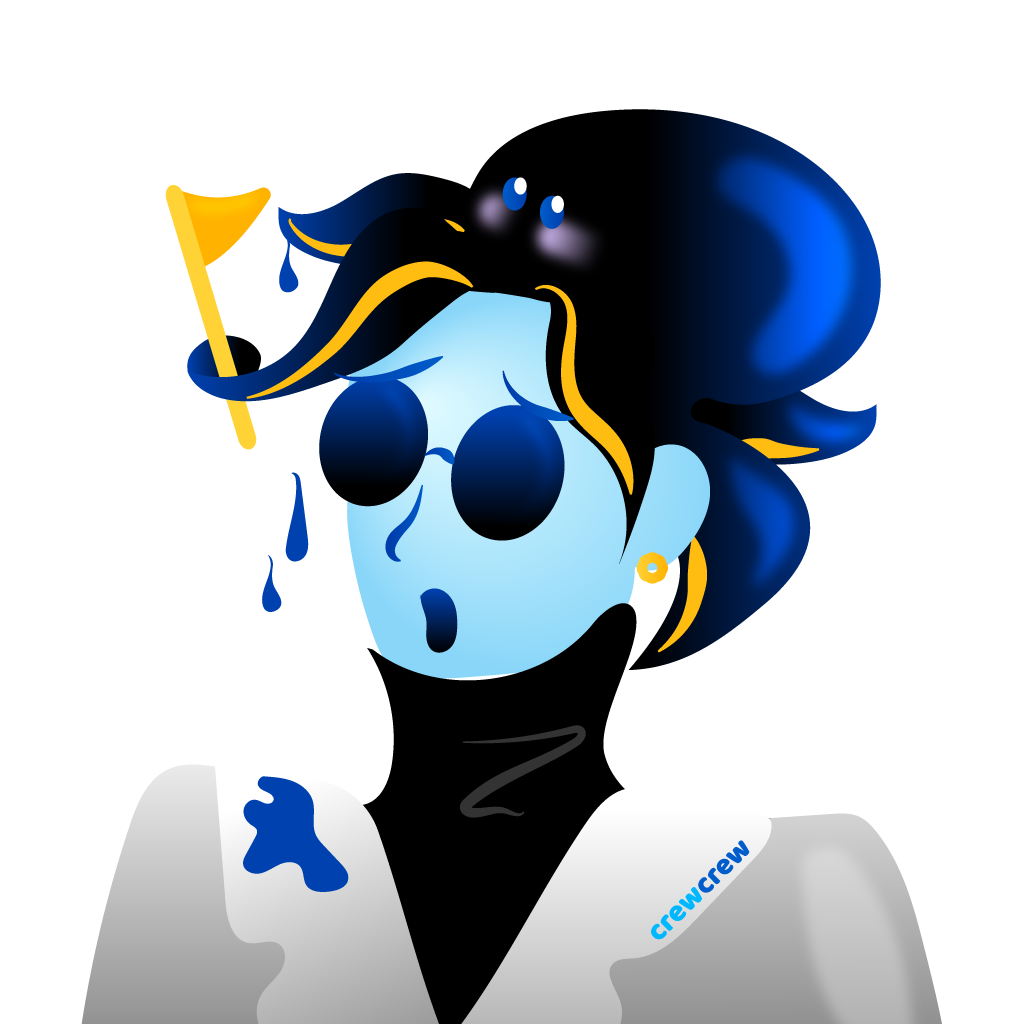
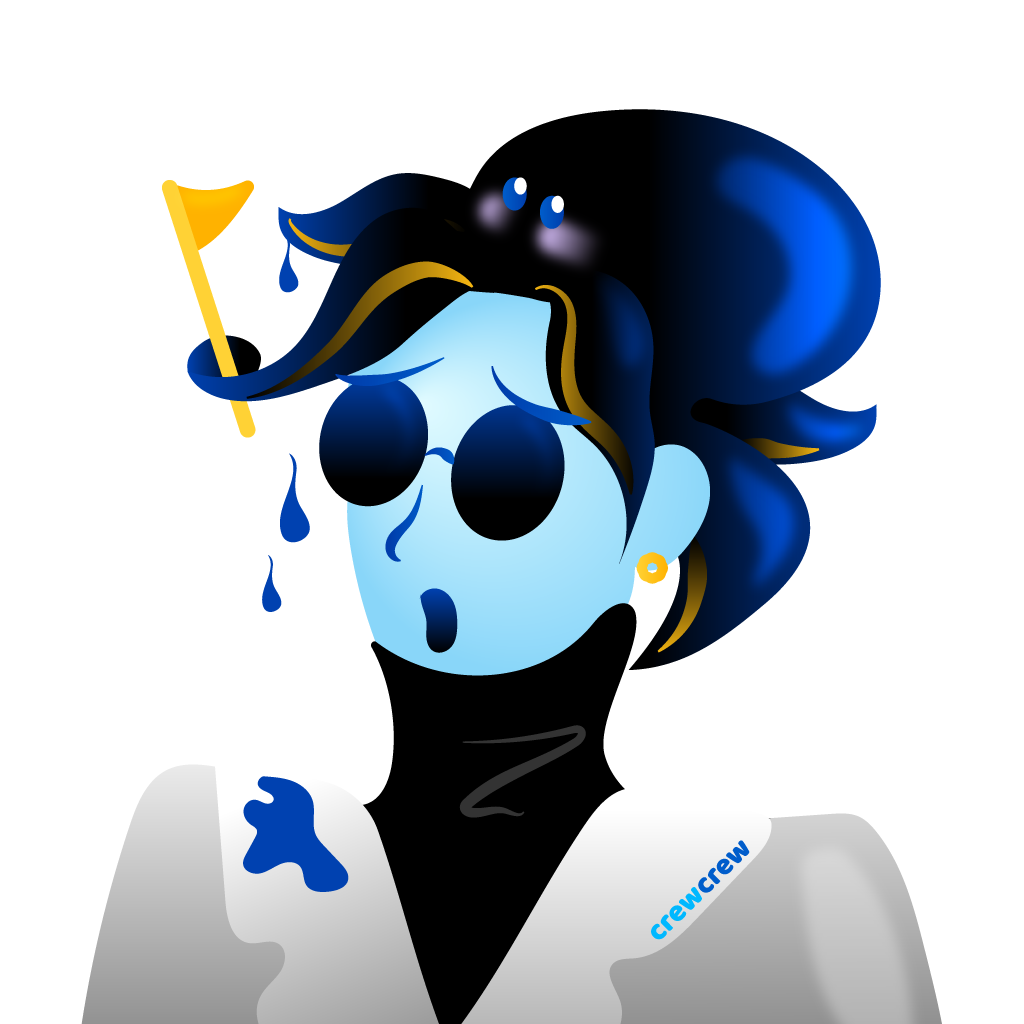
[Publish] 회원가입 2단계 앵무새프로필 추가 및 기능수정
- 프로필을 선택했을 때 해당 프로필에 On클래스 추가되도록, 나머지는 On클래스 제거되도록

diff --git a/frontend/publish/sign/SignStep2.js b/frontend/publish/sign/SignStep2.js
@@ -138,6 +138,8 @@ window.addEventListener("DOMContentLoaded", function(){
             document.querySelector(".ProfileChange").classList.add("On");
             profileShow.style.backgroundColor = "#e2e2e2";
             profileImg.firstElementChild.setAttribute("src", profileURL);
+            profileCustom.parentNode.classList.add("On");
+            profileClassRemove(); //선택한 프로필 외에 나머지 on클래스 없애기
         }
         
     });
@@ -166,8 +168,18 @@ window.addEventListener("DOMContentLoaded", function(){
             document.querySelector(".SelectWrapper").firstElementChild.classList.remove("On");
             document.querySelector(".ProfileTitle").style.opacity = "1";
             document.querySelector(".ProfileChange").classList.remove("On");
+    
+            profileClassRemove(); //선택한 프로필 외에 나머지 on클래스 없애기
+            this.classList.add("On");
         });
     });
+
+    function profileClassRemove(){ //선택한 프로필 외에 나머지 on클래스 없애기
+        const profileLength = profileSelect.length - 1;
+        for(let i = 0; i <= profileLength; i++){
+            profileSelect[i].classList.remove("On");
+        }
+    }
 
     const profileRadio = document.querySelectorAll(".ProfileSelectRadio");
     profileRadio.forEach((e) => { //프로필이미지 or 사진 업로드 시 ProgressTransition증가

diff --git a/frontend/publish/sign/Sign.css b/frontend/publish/sign/Sign.css
@@ -1195,7 +1195,7 @@ ul.SignStep1 {
   cursor: pointer;
 }
 
-.ProfileList li:nth-child(1) .OuterCircle .On {
+.ProfileList li:nth-child(1) .OuterCircle.On {
   border-color: #00b7ff;
 }
 
@@ -1207,7 +1207,7 @@ ul.SignStep1 {
   background-color: #00b7ff;
 }
 
-.ProfileList li:nth-child(2) .OuterCircle .On {
+.ProfileList li:nth-child(2) .OuterCircle.On {
   border-color: #8ED819;
 }
 
@@ -1219,7 +1219,7 @@ ul.SignStep1 {
   background-color: #8ED819;
 }
 
-.ProfileList li:nth-child(3) .OuterCircle .On {
+.ProfileList li:nth-child(3) .OuterCircle.On {
   border-color: #ff0045;
 }
 
@@ -1231,7 +1231,7 @@ ul.SignStep1 {
   background-color: #ff0045;
 }
 
-.ProfileList li:nth-child(4) .OuterCircle .On {
+.ProfileList li:nth-child(4) .OuterCircle.On {
   border-color: #8d2bf5;
 }
 
@@ -1243,16 +1243,16 @@ ul.SignStep1 {
   background-color: #8d2bf5;
 }
 
-.ProfileList li:nth-child(5) .OuterCircle .On {
-  border-color: #005ec5;
+.ProfileList li:nth-child(5) .OuterCircle.On {
+  border-color: #ffd458;
 }
 
 .ProfileList li:nth-child(5) .OuterCircle:hover {
-  border-color: #005ec5;
+  border-color: #ffd458;
 }
 
 .ProfileList li:nth-child(5) .OuterCircle .InnerCircle {
-  background-color: #005ec5;
+  background-color: #ffd458;
 }
 
 .OuterCircle {

diff --git a/frontend/publish/sign/SignStep2.html b/frontend/publish/sign/SignStep2.html
@@ -105,7 +105,7 @@
                                             <input type="radio" id="Profile5" class="InputHide ProfileSelectRadio" name="ProfileSelectRadio">
                                             <label for="Profile5" class="OuterCircle">
                                               <div class="InnerCircle">
-                                                  <img src="../../src/assets/images/Profile1.png" alt="">
+                                                  <img src="../../src/assets/images/Profile5.png" alt="">
                                               </div>
                                             </label>
                                         </li>

diff --git a/frontend/publish/sign/Sign.scss b/frontend/publish/sign/Sign.scss
@@ -293,7 +293,7 @@ ul.SignStep1{
 
 @mixin Circle($color) {
     .OuterCircle{
-        .On{
+        &.On{
             border-color: $color;
         }
         &:hover{
@@ -339,7 +339,7 @@ ul.SignStep1{
             @include Circle($purple1);
         }
         &:nth-child(5){
-            @include Circle($blue2);
+            @include Circle($yellow1);
         }
     }
 }
